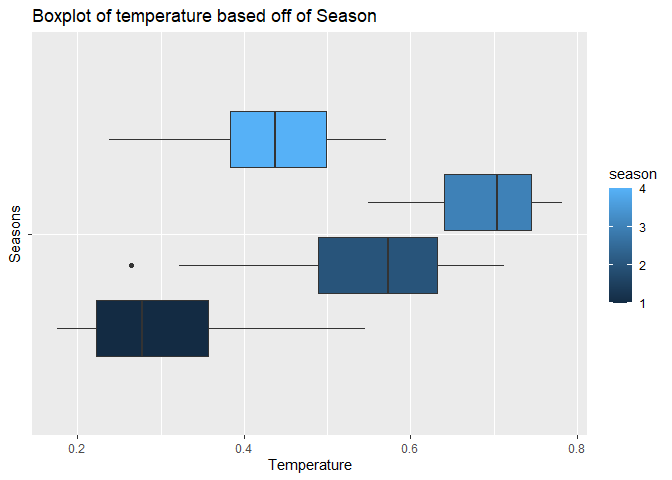
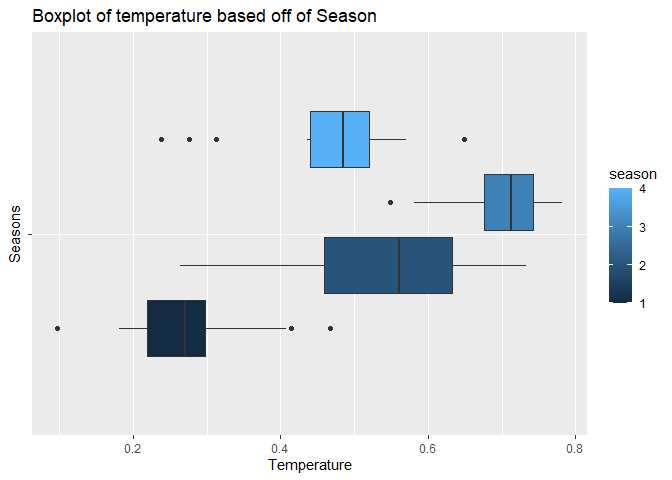
Added the ensemble boosted model and fixed the training and testing dataset.

diff --git a/Project2.md b/Project2.md
@@ -63,19 +63,20 @@ the work reproducible.
 
 ``` r
 set.seed(123)
-trainIndex <- createDataPartition(data_by_day$cnt, p=0.7, list = FALSE)
+train <- sample(1:nrow(data_by_day), size=nrow(data_by_day)*0.7)
+test <- dplyr::setdiff(1:nrow(data_by_day), train)
 
-train.data_by_day <- data_by_day[trainIndex,]
-test.data_by_day <- data_by_day[-trainIndex,]
+daydataTrain <- data_by_day[train, ]
+daydataTest <- data_by_day[test, ]
 ```
 
 ## Summary Statistics
 
-I need to describe the purpse of this summary statistics/plot and what
-the reader may be able to deteremine from it.
+I need to describe the purpose of this summary statistics/plot and what
+the reader may be able to determine from it.
 
 ``` r
-grouped_mean.sd_on_some_variables <- train.data_by_day %>% group_by(season) %>% summarise(
+grouped_mean.sd_on_some_variables <- daydataTrain %>% group_by(season) %>% summarise(
   n=n(),
   avg_temp = round(mean(temp),2),
   avg_atemp = round(mean(atemp),2),
@@ -105,19 +106,17 @@ kable(grouped_mean.sd_on_some_variables, caption= "Summary Statistics on some of
 
 | season |   n | Average temperature | Average feeling temperature | Average humidity | Average Windspeed | Average count of total rental bikes | Standard deviation of temperature | Standard deviation of feeling temperature | Standard deviation of humidity | Standard deviation of windspeed | Standard deviation of count of total rental bikes |
 |-------:|----:|--------------------:|----------------------------:|-----------------:|------------------:|------------------------------------:|----------------------------------:|------------------------------------------:|-------------------------------:|--------------------------------:|--------------------------------------------------:|
-|      1 |  18 |                0.30 |                        0.30 |             0.55 |              0.23 |                             2675.50 |                              0.10 |                                      0.10 |                           0.13 |                            0.08 |                                           1470.39 |
-|      2 |  17 |                0.54 |                        0.52 |             0.60 |              0.24 |                             4706.00 |                              0.12 |                                      0.11 |                           0.16 |                            0.07 |                                           1419.53 |
-|      3 |  19 |                0.69 |                        0.64 |             0.64 |              0.17 |                             5520.11 |                              0.07 |                                      0.06 |                           0.10 |                            0.06 |                                           1357.74 |
-|      4 |  22 |                0.43 |                        0.43 |             0.73 |              0.15 |                             4586.77 |                              0.09 |                                      0.08 |                           0.12 |                            0.08 |                                           1595.68 |
+|      1 |  14 |                0.27 |                        0.28 |             0.56 |              0.22 |                             2312.64 |                              0.10 |                                      0.09 |                           0.15 |                            0.10 |                                           1201.64 |
+|      2 |  20 |                0.55 |                        0.52 |             0.62 |              0.24 |                             4354.45 |                              0.13 |                                      0.11 |                           0.15 |                            0.08 |                                           1390.04 |
+|      3 |  22 |                0.70 |                        0.65 |             0.65 |              0.17 |                             5720.95 |                              0.06 |                                      0.05 |                           0.10 |                            0.06 |                                           1292.39 |
+|      4 |  17 |                0.46 |                        0.46 |             0.72 |              0.14 |                             4810.47 |                              0.11 |                                      0.09 |                           0.13 |                            0.08 |                                           1839.12 |
 
 Summary Statistics on some of the variables based off of the different
 seasons
 
-Need to produce 3 graphs
-
 ``` r
 # Box plot seasons temperature
-ggplot(train.data_by_day, aes(group=season, temp, y="", fill=season))+geom_boxplot()+ggtitle("Boxplot of temperature based off of Season")+ylab("Seasons")+xlab("Temperature")
+ggplot(daydataTrain, aes(group=season, temp, y="", fill=season))+geom_boxplot()+ggtitle("Boxplot of temperature based off of Season")+ylab("Seasons")+xlab("Temperature")
 ```
 
 ![](Project2_files/figure-gfm/unnamed-chunk-8-1.png)<!-- -->
@@ -125,17 +124,97 @@ ggplot(train.data_by_day, aes(group=season, temp, y="", fill=season))+geom_boxpl
 ``` r
 # Scatterplot cnt vs temp based off of season
 
-ggplot(train.data_by_day, aes(x=cnt, y=temp, color=season))+geom_point()+labs(x="Temperature", y="Count of total rental bikes", title="Scatterplot of Temperature vs Count of total rental bikes based off of seasons")
+ggplot(daydataTrain, aes(x=cnt, y=temp, color=season))+geom_point()+labs(x="Count of total rental bikes", y="Temperature", title="Scatterplot of Temperature vs Count of total rental bikes based off of seasons")
 ```
 
 ![](Project2_files/figure-gfm/unnamed-chunk-8-2.png)<!-- -->
 
 ``` r
-#
+# +geom_smooth(aes(cnt,temp),method=lm), scale_color_gradient(low="blue", high="red")
+
+# Scatterplot of Temperature vs Windspeed
+ggplot(daydataTrain, aes(x=temp,y=windspeed, color=season))+geom_point()+geom_smooth(aes(temp,windspeed),method=lm)+labs(x="Temperature", y="Windspeed", title="Scatterplot of Temperature vs Windspeed")
 ```
 
-## Summarization
+    ## `geom_smooth()` using formula 'y ~ x'
+
+![](Project2_files/figure-gfm/unnamed-chunk-8-3.png)<!-- -->
 
 ## Modeling
+
+What Marcus will be doing tomorrow(6/28/2021):
+
+explanation of ensemble model (going to mention that I did not include
+some of the categorical variables)
+
+``` r
+# Did not include the categorical variables
+model_1 <- lm(cnt ~ temp+atemp+hum+windspeed, data=daydataTrain)
+summary(model_1)
+```
+
+    ## 
+    ## Call:
+    ## lm(formula = cnt ~ temp + atemp + hum + windspeed, data = daydataTrain)
+    ## 
+    ## Residuals:
+    ##      Min       1Q   Median       3Q      Max 
+    ## -3059.61  -774.06    18.58  1034.68  2144.22 
+    ## 
+    ## Coefficients:
+    ##             Estimate Std. Error t value Pr(>|t|)    
+    ## (Intercept)     3393       1114   3.045 0.003306 ** 
+    ## temp          -22694      11490  -1.975 0.052312 .  
+    ## atemp          33655      13155   2.558 0.012748 *  
+    ## hum            -4555       1225  -3.719 0.000407 ***
+    ## windspeed      -4851       1953  -2.484 0.015463 *  
+    ## ---
+    ## Signif. codes:  0 '***' 0.001 '**' 0.01 '*' 0.05 '.' 0.1 ' ' 1
+    ## 
+    ## Residual standard error: 1308 on 68 degrees of freedom
+    ## Multiple R-squared:  0.5278, Adjusted R-squared:    0.5 
+    ## F-statistic:    19 on 4 and 68 DF,  p-value: 1.575e-10
+
+``` r
+anova(model_1)
+```
+
+    ## Analysis of Variance Table
+    ## 
+    ## Response: cnt
+    ##           Df    Sum Sq  Mean Sq F value    Pr(>F)    
+    ## temp       1  93008306 93008306 54.3393 3.026e-10 ***
+    ## atemp      1   9098506  9098506  5.3157  0.024191 *  
+    ## hum        1  17434204 17434204 10.1858  0.002143 ** 
+    ## windspeed  1  10560585 10560585  6.1699  0.015463 *  
+    ## Residuals 68 116390308  1711622                      
+    ## ---
+    ## Signif. codes:  0 '***' 0.001 '**' 0.01 '*' 0.05 '.' 0.1 ' ' 1
+
+``` r
+VIF(model_1)
+```
+
+    ##       temp      atemp        hum  windspeed 
+    ## 179.063477 181.408448   1.245382   1.198662
+
+``` r
+trctrl <- trainControl(method = "repeatedcv", number=10, repeats=5)
+#create a boosted model tree
+boostree <- train(cnt ~ temp+atemp+hum+windspeed, 
+               method = 'gbm', 
+               trControl=trctrl, 
+               data=daydataTrain, 
+               preProcess=c("center", "scale"),
+               verbose = FALSE)
+#predict the values for our cnt variable and compare it to our testing data. 
+boostree_pred <- predict(boostree, newdata=daydataTest)
+#a frequency of how many of each response there is. 
+boostree_pred2 <- table(boostree_pred, daydataTest$cnt)
+misclass <- 1-(sum(diag(boostree_pred2))/sum(boostree_pred2))
+misclass
+```
+
+    ## [1] 0.96875
 
 ## Comparison
